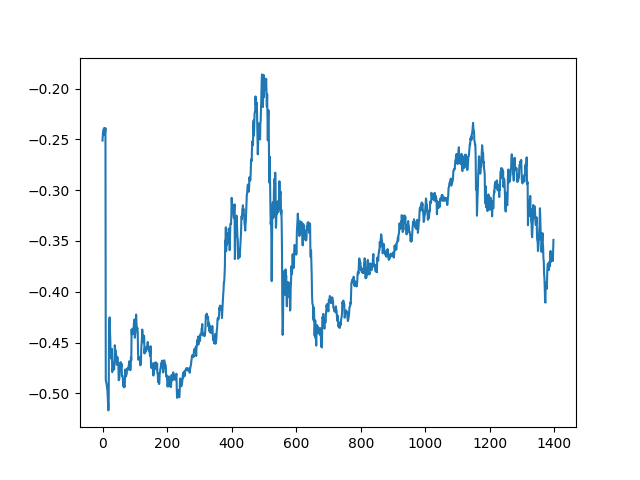
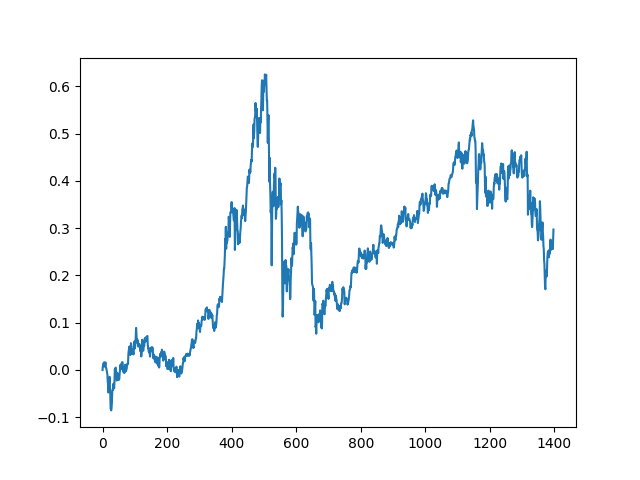
修改了模拟交易函数的bug

diff --git a/etfdata.py b/etfdata.py
@@ -9,6 +9,7 @@ import matplotlib.pyplot as plt
 import etfdata
     
     
+#此函数作废，重写
 '''执行一次交易模拟
 输入的参数
 cost_pertime 每次投入金额
@@ -17,7 +18,7 @@ freq 交易频率，几天交易一次
 df_300, df_nas,分别为两个定投的etf的实盘成交数据
 返回值为一个DataFrame，包含每个交易日的成本，收益，收益率等数据
 '''
-def work(cost_pertime, time, freq, df_300, df_nas):
+def work2(cost_pertime, time, freq, df_300, df_nas):
     #计算交易次数
     tradetimes = int(time/freq)
     #print(tradetimes)
@@ -125,6 +126,143 @@ def work(cost_pertime, time, freq, df_300, df_nas):
     return data
     
     
+'''执行一次交易模拟
+输入的参数
+cost_pertime 每次投入金额
+time 交易周期的天数
+freq 交易频率，几天交易一次
+df_300, df_nas,分别为两个定投的etf的实盘成交数据
+返回值为一个DataFrame，包含每个交易日的成本，收益，收益率等数据
+'''
+def work(cost_pertime, time, freq, df_300, df_nas):
+    #计算交易次数
+    tradetimes = int(time/freq)
+    #手续费费率
+    fee_rate = 0.0003
+    #买每个etf的金额为总投资额的一半
+    money_per_etf = cost_pertime/2.0
+    #每次实际投资金额
+    money_300 = money_per_etf
+    money_nas = money_per_etf
+    #每次剩下的钱，累加到下一次
+    money_300_rem = 0
+    money_nas_rem = 0
+    
+    #定义变量
+    #成本
+    cost300 = []
+    costNas = []
+    cost = []
+    #手续费
+    fee300 = []
+    feeNas = []
+    fee = []
+    #持仓量
+    stack300 = []
+    stackNas = []
+    stack = []
+    #市值
+    value300 = []
+    valueNas = []
+    value = []
+    #持仓收益
+    income = []
+    #持仓收益率
+    rate = []
+    
+    #执行模拟
+    j = 0
+    for i in range(times):
+        if j == 0:   #进行交易
+            #先计算能投入的金额
+            money300 = money_300 + money_300_rem
+            moneyNas = money_nas + money_nas_rem
+            #计算买入数量
+            num300 = BuyNumber(money300, df_300["close"][i])
+            numNas = BuyNumber(moneyNas, df_nas["close"][i])
+            if i == 0:
+                stack300.append(num300)
+                stackNas.append(numNas)
+            else:
+                stack300.append(stack300[i-1] + num300)
+                stackNas.append(stackNas[i-1] + numNas)
+            #print(i, num300, numNas)
+            #计算买入成本
+            cost_300 = BuyCost(num300, df_300["close"][i])
+            fee_300 = BuyFee(cost_300, fee_rate)
+            cost_nas = BuyCost(numNas, df_nas["close"][i])
+            fee_nas = BuyFee(cost_nas, fee_rate)
+            if i == 0:
+                fee.append(fee_300 + fee_nas)
+                cost300.append(cost_300 + fee_300)
+                costNas.append(cost_nas + fee_nas)
+            else:
+                fee.append(fee[i-1] + fee_300 + fee_nas)
+                cost300.append(cost300[i-1] + cost_300 + fee_300)
+                costNas.append(costNas[i-1] + cost_nas + fee_nas)
+            cost.append(cost300[i] + costNas[i])
+            money_300_rem = money300 - cost_300 - fee_300
+            money_nas_rem = moneyNas - cost_nas - fee_nas
+        else:        #不进行交易
+            stack300.append(stack300[i-1])
+            stackNas.append(stackNas[i-1])
+            cost300.append(cost300[i-1])
+            costNas.append(costNas[i-1])
+            cost.append(cost[i-1])
+            fee.append(fee[i-1])
+        j += 1
+        if j == freq:
+            j = 0
+        #不管是否交易都要计算的数据
+        #计算市值
+        value300.append(stack300[i] * df_300["close"][i])
+        valueNas.append(stackNas[i] * df_nas["close"][i])
+        value.append(value300[i] + valueNas[i])
+        #计算收益
+        income.append(value[i] - cost[i])
+        #计算收益率
+        rate.append(income[i]/cost[i])
+        
+    
+    #形成返回数据
+    data = FormResult(cost, fee, value, income, rate)
+    return data
+    
+    
+#形成返回数据
+def FormResult(cost, fee, value, income, rate):
+    data = pd.DataFrame(
+    {
+    "成本":cost,
+    "手续费":fee,
+    "市值":value,
+    "收益":income,
+    "收益率":rate
+    }
+    )
+    return data
+    
+
+#根据可用的资金和收盘价，计算可以买的股票数量
+def BuyNumber(money, price):
+    num = int(money/price/100)*100
+    return num
+    
+    
+#根据成交量和成交价计算成本，不含手续费
+def BuyCost(number, price):
+    cost = number*price
+    return cost
+    
+    
+#根据交易金额,费率计算手续费
+def BuyFee(money, rate):
+    fee = money * rate
+    if fee < 0.1:
+        fee = 0.1
+    return fee
+    
+    
 #按不同交易频率进行交易
 def Run(cost, time, df_300, df_nas):
     data = []
@@ -216,12 +354,10 @@ if __name__=="__main__":
     length2 = len(df_nas)
     df_300 = df_300.loc[0:length1, ["date", "close"]]
     df_nas = df_nas.loc[0:length2, ["date", "close"]]
-    print(len(df_300), len(df_nas))
     #试试用实盘的策略的模拟结果
     freq = 10
     times = len(df_300)
     data = work(1000, times, freq, df_300, df_nas)
-    print(data)
     #计算指标
     #先处理基准指标，剔除没交易的日期的数据
     #df_300 = df_300[df_300["date"].isin(data.日期.values)]
@@ -236,8 +372,6 @@ if __name__=="__main__":
     "数据":data["收益率"].values
     }
     )
-    print(df_base.head(), len(df_base))
-    print(testdata.head())
     result = index.index(testdata, df_base, 0.03)
     print(result)
     #画图看看吧。
